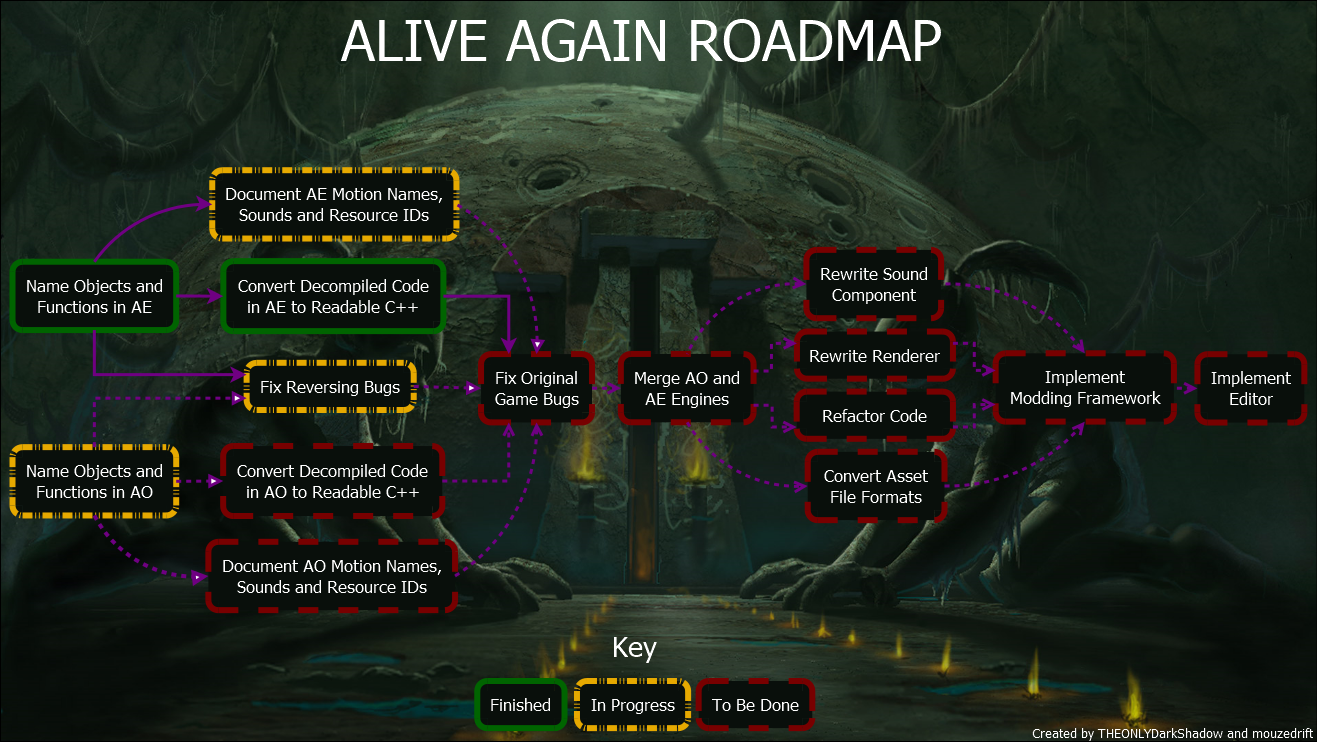
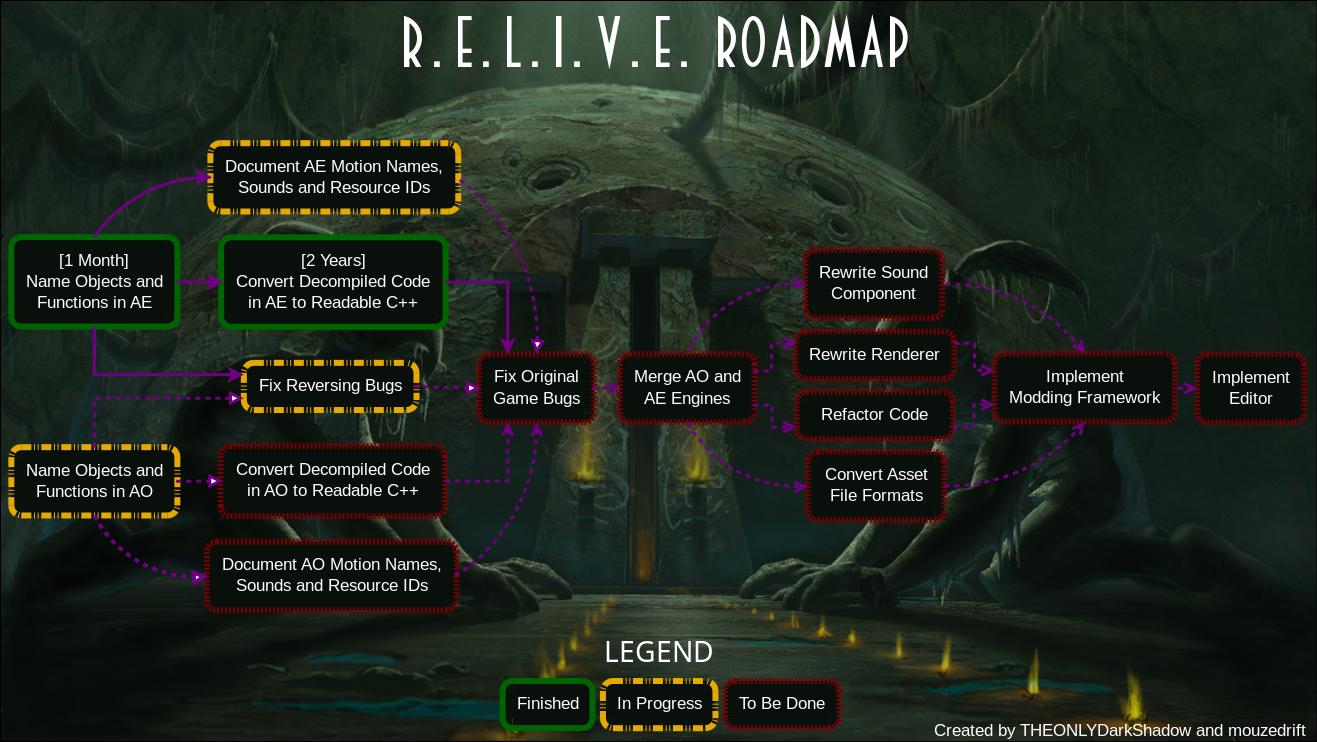
Updated roadmap and added title

diff --git a/index.html b/index.html
@@ -46,7 +46,7 @@
   <div id="links">
     <a href="https://discord.gg/khs6KKS"><img alt="Join the Discord!" src="imgs/dc.png"></a>
     <a href="https://www.patreon.com/alive"><img alt="Support on Patreon!" src="imgs/patreon.png"></a>
-    <a href="https://paypal.me/paulsapps"><img alt="Support on PayPal" src="imgs/paypal.png"></a>
+    <a href="https://paypal.me/paulsapps"><img alt="Support on PayPal!" src="imgs/paypal.png"></a>
   </div>
 </main>
 

diff --git a/_layouts/default.html b/_layouts/default.html
@@ -4,6 +4,7 @@
     <meta name="viewport" content="width=device-width, initial-scale=1.0">
     <meta charset="UTF-8">
     <link rel="stylesheet" href="style.css">
+    <title>R.E.L.I.V.E. Engine</title>
   </head>
   <body>
     {{ content }}
